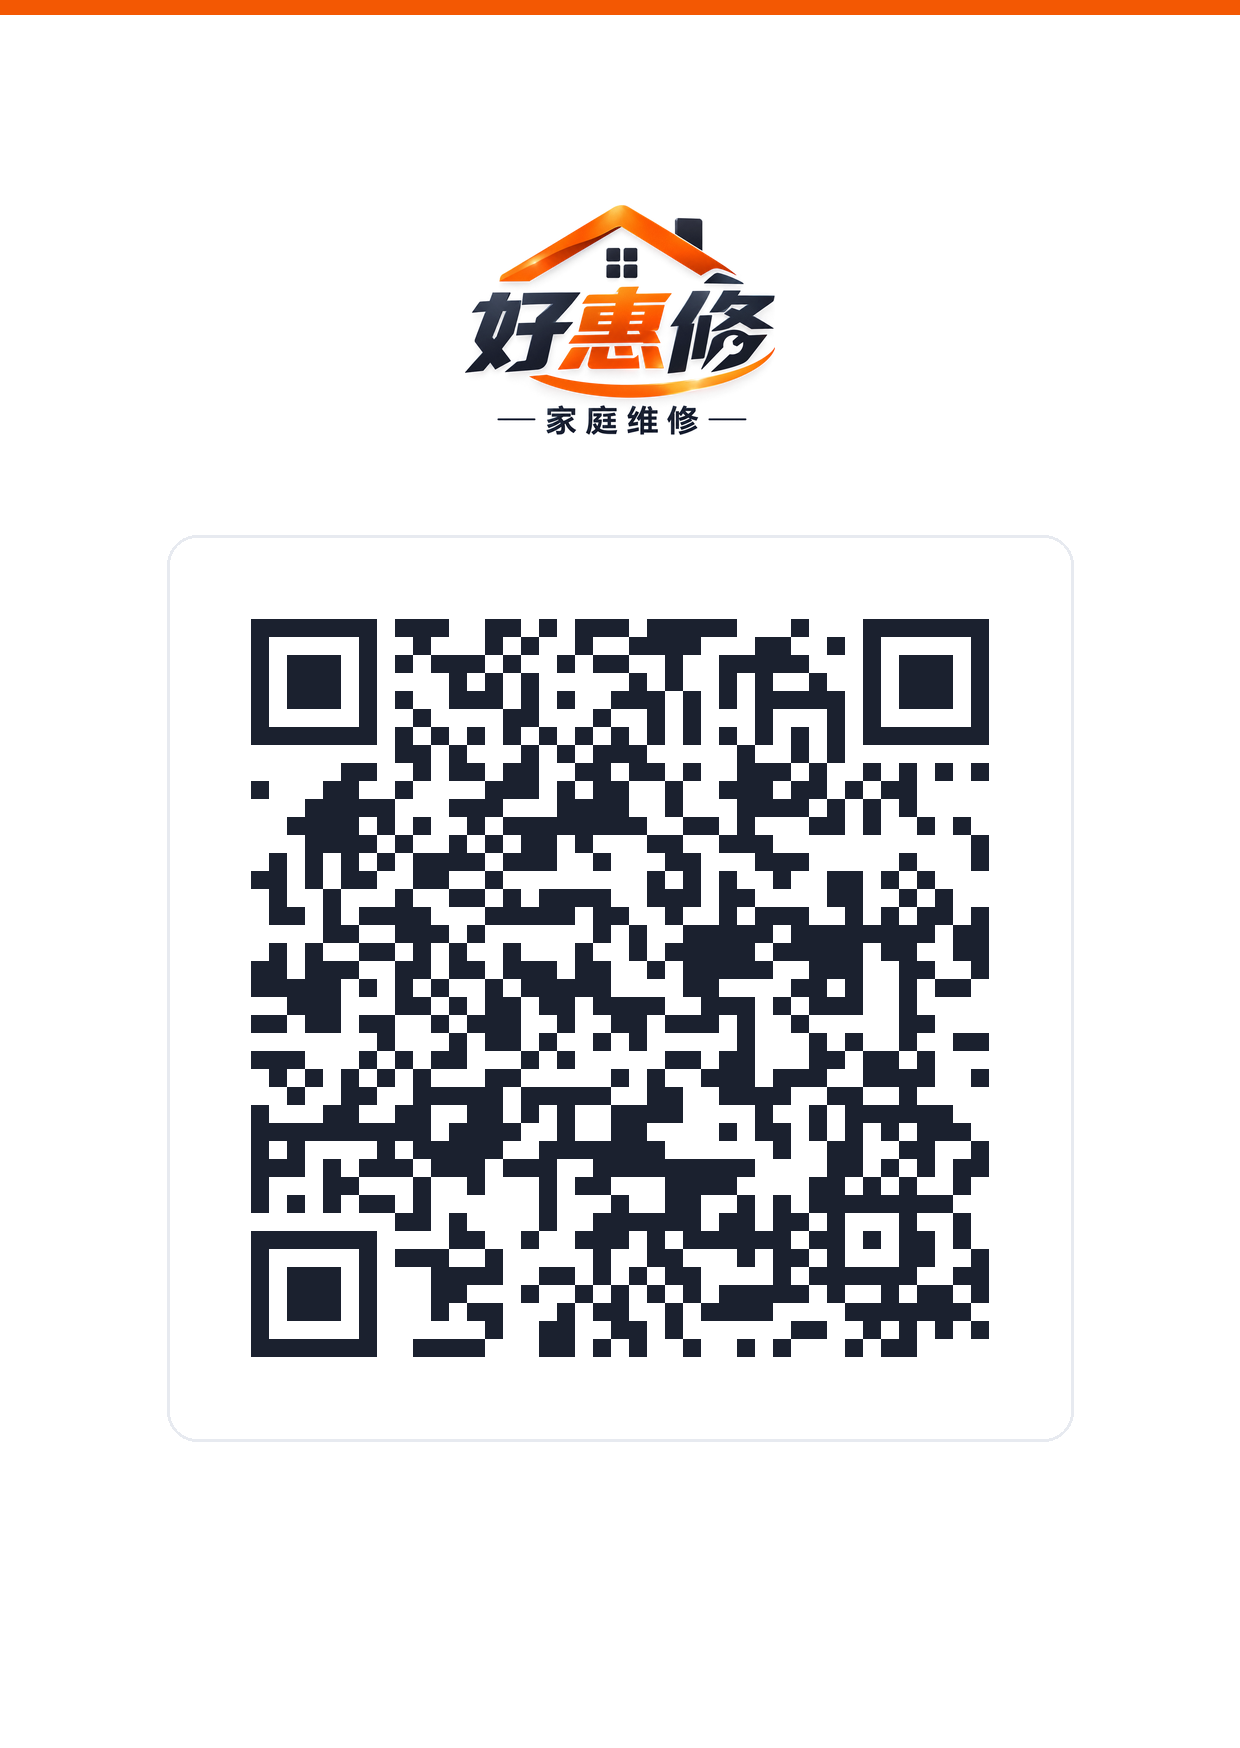
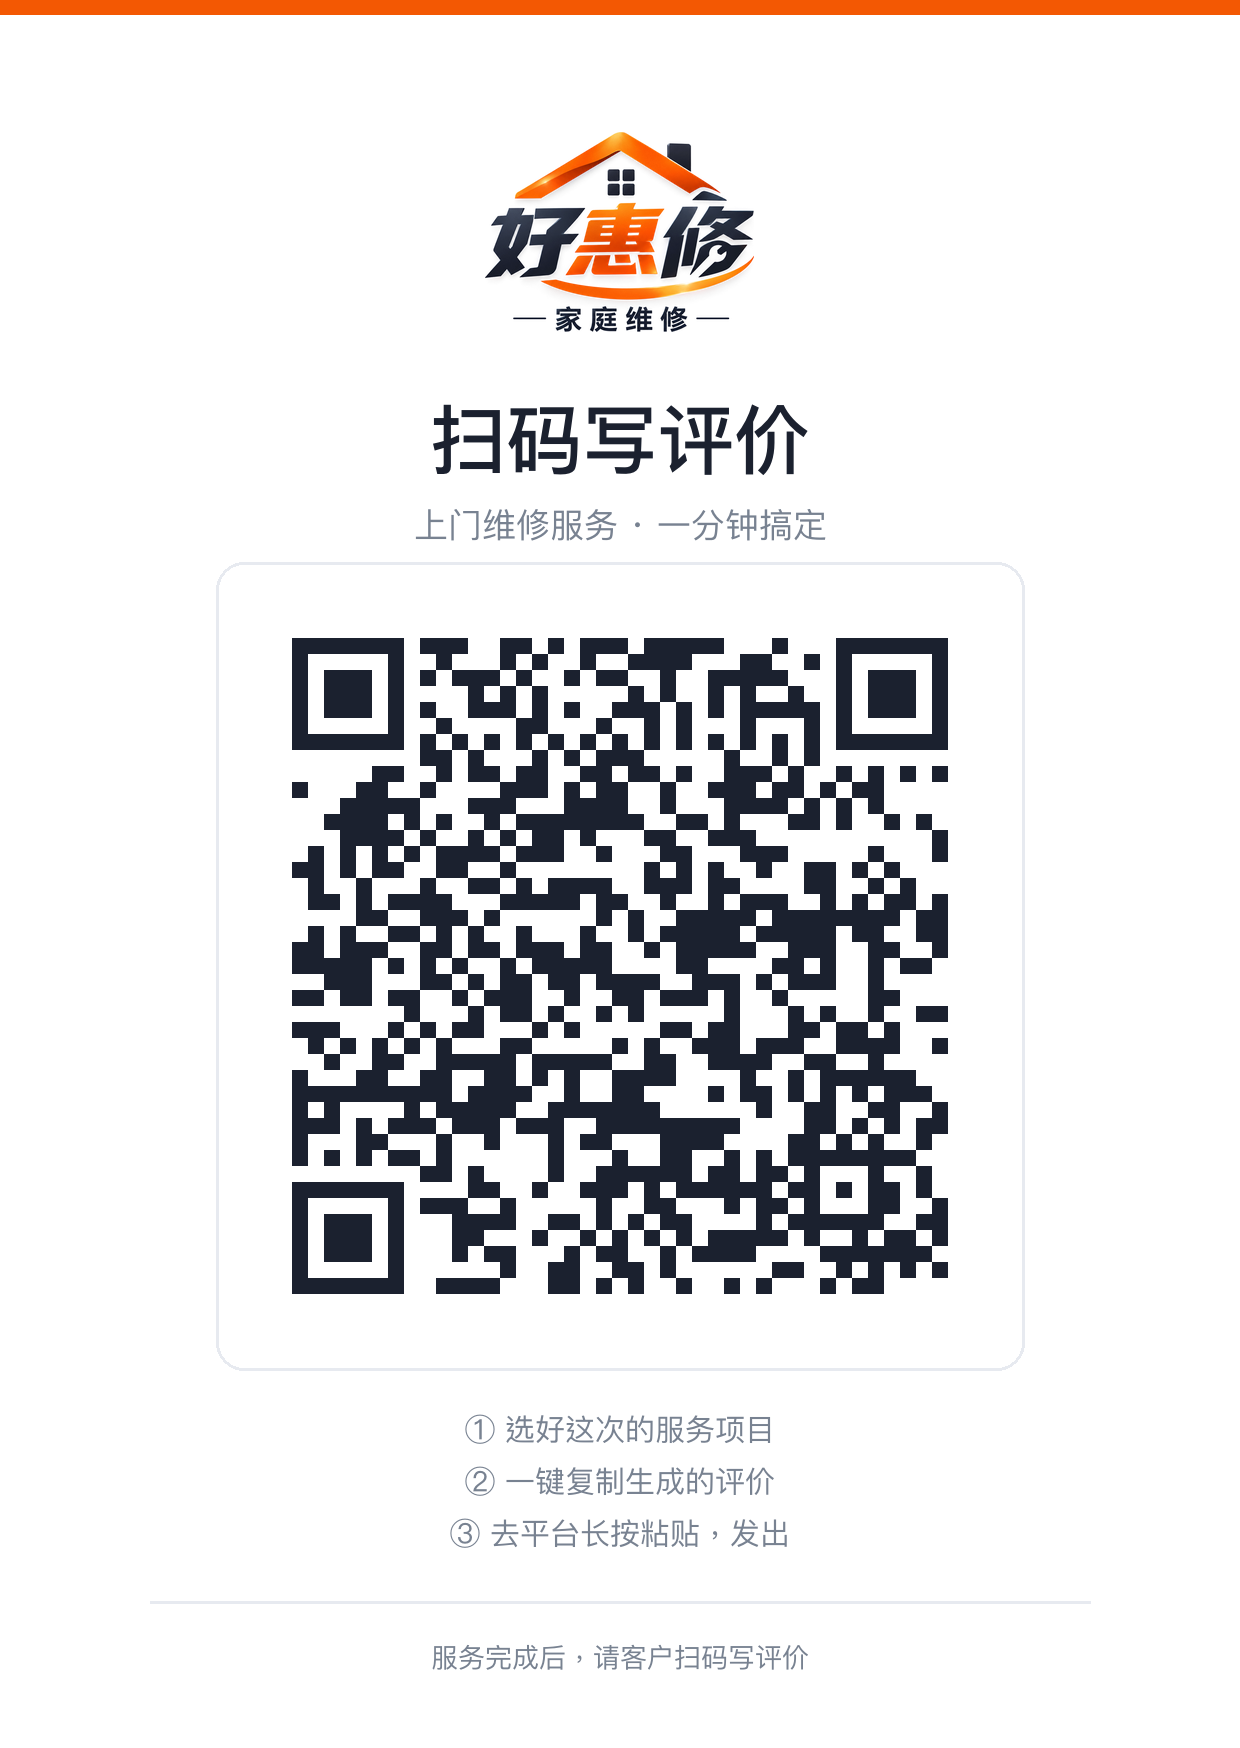
默认行业改为上门维修、顶部加上门服务说明；二维码卡片补回上门维修相关文案（无品牌旧名）

diff --git a/index.html b/index.html
@@ -55,6 +55,7 @@ body{
   border-radius:50%;pointer-events:none}
 .only-dark{display:none}
 @media (prefers-color-scheme:dark){.only-light{display:none}.only-dark{display:block}}
+.lead{color:var(--muted);font-size:13.5px;line-height:1.75;margin:16px 2px 14px}
 .card{background:var(--card);border:1px solid var(--line);border-radius:var(--r);box-shadow:var(--shadow);padding:16px;margin-bottom:14px}
 .row{margin-bottom:16px}
 .row:last-child{margin-bottom:0}
@@ -130,6 +131,7 @@ textarea{resize:vertical;min-height:62px;line-height:1.5}
   </div>
 </div>
 <div class="wrap">
+  <p class="lead">按这次上门服务的实际情况勾选，生成几条可以直接发出去的顾客评价。</p>
 
   <div class="card">
     <div class="row">
@@ -174,7 +176,7 @@ textarea{resize:vertical;min-height:62px;line-height:1.5}
   </div>
 
   <div class="results" id="out">
-    <div class="card empty" id="empty">点「生成文案」</div>
+    <div class="card empty" id="empty">点「生成文案」，出 3 条候选</div>
   </div>
 
   <!--
@@ -363,7 +365,7 @@ function build(cfg){
 }
 
 /* ---------- UI ---------- */
-var cfg={cat:'general',tags:[],style:'plain',len:'mid',power:'normal',name:'',detail:''};
+var cfg={cat:'repair',tags:[],style:'plain',len:'mid',power:'normal',name:'',detail:''};
 var $=function(s){return document.querySelector(s)};
 
 function chipRow(el,items,isOn,onTap){

diff --git a/qr/make_qr.py b/qr/make_qr.py
@@ -30,33 +30,45 @@ def draw_qr(d, x0, y0, mod, quiet=3):
                 d.rectangle([px, py, px + mod - 1, py + mod - 1], fill=DARK)
     return (n + quiet * 2) * mod
 
-# ---------- A6 打印卡片：只有 logo + 二维码 ----------
+# ---------- A6 打印卡片 ----------
 W, H = 1240, 1748
 im = Image.new("RGB", (W, H), "white")
 d = ImageDraw.Draw(im)
+ctr = lambda t, y, font, fill: d.text(((W - d.textbbox((0, 0), t, font=font)[2]) / 2, y), t, font=font, fill=fill)
 d.rectangle([0, 0, W, 14], fill=BRAND)
 
-lh = 230
+lh = 200
 lg = logo.resize((int(logo.width * lh / logo.height), lh), Image.LANCZOS)
-im.paste(lg, ((W - lg.width) // 2, 205), lg)
+im.paste(lg, ((W - lg.width) // 2, 132), lg)
+ctr("扫码写评价", 386, f(76, 4), DARK)
+ctr("上门维修服务 · 一分钟搞定", 500, f(34, 0), GREY)
 
-SIDE = draw_qr(d, (W - (n + 6) * 18) // 2, 565, 18)
-d.rounded_rectangle([(W - SIDE) // 2 - 30, 535, (W + SIDE) // 2 + 30, 565 + SIDE + 30], 30, outline=LINE, width=3)
+SIDE = draw_qr(d, (W - (n + 6) * 16) // 2, 590, 16)
+d.rounded_rectangle([(W - SIDE) // 2 - 28, 562, (W + SIDE) // 2 + 28, 590 + SIDE + 28], 28, outline=LINE, width=3)
+
+y = 590 + SIDE + 66
+for t in ["① 选好这次的服务项目", "② 一键复制生成的评价", "③ 去平台长按粘贴，发出"]:
+    ctr(t, y, f(30, 0), GREY); y += 52
+d.line([150, H - 146, W - 150, H - 146], fill=LINE, width=3)
+ctr("服务完成后，请客户扫码写评价", H - 110, f(27, 0), GREY)
 im.save("扫码卡片.png", dpi=(300, 300))
 im.resize((W // 3, H // 3), Image.LANCZOS).save("扫码卡片_预览.png")
 
-# ---------- 1080 方形版：只有 logo + 二维码 ----------
+# ---------- 1080 方形版 ----------
 S = 1080
 sq = Image.new("RGB", (S, S), "white")
 sd = ImageDraw.Draw(sq)
+sctr = lambda t, y, font, fill: sd.text(((S - sd.textbbox((0, 0), t, font=font)[2]) / 2, y), t, font=font, fill=fill)
 sd.rectangle([0, 0, S, 12], fill=BRAND)
 
-slh = 150
+slh = 140
 slg = logo.resize((int(logo.width * slh / logo.height), slh), Image.LANCZOS)
-sq.paste(slg, ((S - slg.width) // 2, 84), slg)
+sq.paste(slg, ((S - slg.width) // 2, 70), slg)
+sctr("扫码写评价", 236, f(52, 4), DARK)
 
-SIDE2 = draw_qr(sd, (S - (n + 6) * 14) // 2, 304, 14)
-sd.rounded_rectangle([(S - SIDE2) // 2 - 26, 278, (S + SIDE2) // 2 + 26, 304 + SIDE2 + 26], 26, outline=LINE, width=3)
+SIDE2 = draw_qr(sd, (S - (n + 6) * 13) // 2, 340, 13)
+sd.rounded_rectangle([(S - SIDE2) // 2 - 24, 316, (S + SIDE2) // 2 + 24, 340 + SIDE2 + 24], 24, outline=LINE, width=3)
+sctr("微信扫一扫 / 相机扫码", 340 + SIDE2 + 40, f(26, 1), DARK)
 sq.resize((S // 2, S // 2), Image.LANCZOS).save("方形版_预览.png")
 sq.save("方形版_1080.png", dpi=(300, 300))
 
